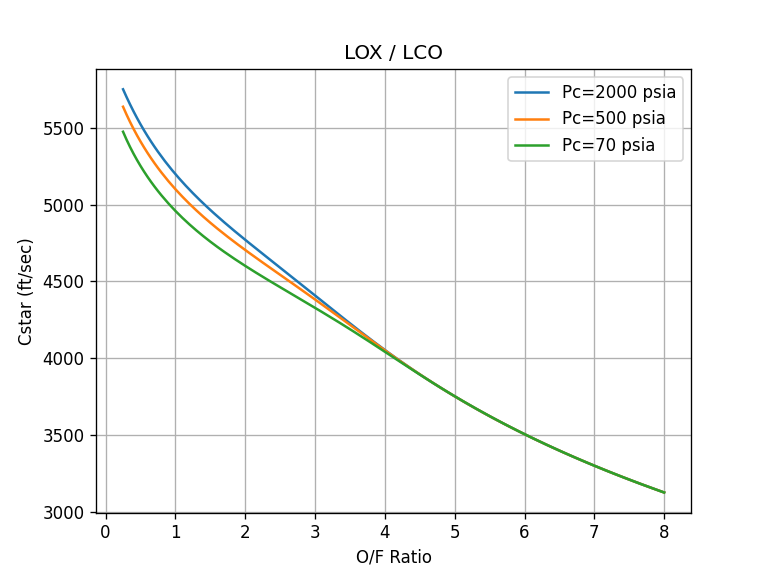
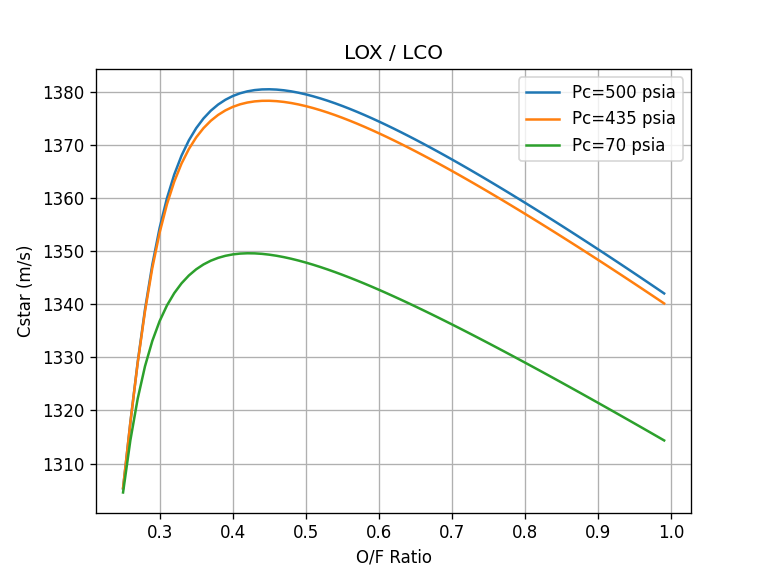
C* vs O/F Isp vs eps

diff --git a/test.py b/test.py
@@ -2,53 +2,78 @@ from rocketcea.cea_obj import CEA_Obj, add_new_fuel, add_new_oxidizer, add_new_p
 import CoolProp.CoolProp as CP
 from pylab import *
 
+# isp_units            = 'sec',         # N-s/kg, m/s, km/s
+# cstar_units          = 'ft/sec',      # m/s
+# pressure_units       = 'psia',        # MPa, KPa, Pa, Bar, Atm, Torr
+# temperature_units    = 'degR',        # K, C, F
+# sonic_velocity_units = 'ft/sec',      # m/s
+# enthalpy_units       = 'BTU/lbm',     # J/g, kJ/kg, J/kg, kcal/kg, cal/g
+# density_units        = 'lbm/cuft',    # g/cc, sg, kg/m^3
+# specific_heat_units  = 'BTU/lbm degR' # kJ/kg-K, cal/g-C, J/kg-K
+# viscosity_units      = 'millipoise'   # lbf-sec/sqin, lbf-sec/sqft, lbm/ft-sec, poise, centipoise
+# thermal_cond_units   = 'mcal/cm-K-s'  # millical/cm-degK-sec, BTU/hr-ft-degF, BTU/s-in-degF,
+#                                       #  cal/s-cm-degC, W/cm-degC
+
 # # O/F ratio
 # C = CEA_Obj( oxName='LOX', fuelName='LH2')
 # for mr in range(2,9):
 #     print(mr, C.get_Isp(Pc=100.0, MR=mr, eps=40.0) )
 
 
-# # General information
-# ispObj = CEA_Obj( oxName='LOX', fuelName='LH2')
-# s = ispObj.get_full_cea_output( Pc=1000.0, MR=6.0, eps=40.0, short_output=1)
-# print( s )
-
-
-
 
 # Add LCO as a prop
 card_str = """
 fuel CO(L)  C 1.0   O 1.0     wt%=100.00
-h,cal=12900.0     t(k)=80   rho=CP.PropsSI('D', 'T', 80, 'P', 1500000, 'CarbonMonoxide')
+h,j/mol=-110530
 """
 add_new_fuel( 'LCO', card_str )
-# C = CEA_Obj(oxName="LOX", fuelName="LCO")
-# s = C.get_full_cea_output( Pc=1850.0, MR=0.7, eps=40.0, short_output=1)
+
+
+# # General information
+ispObj = CEA_Obj(oxName='LOX', fuelName='LCO')
+# s = ispObj.get_full_cea_output( Pc=30, MR=0.571, eps=40.0, short_output=1, pc_units='bar', output='siunits')
 # print( s )
 
 
 
-
-# pcL = [ 2000., 500., 70.]
-#
-# ispObj = CEA_Obj(propName='', oxName='LOX', fuelName="LCO")
-# # ispObj = CEA_Obj(propName='', oxName='LOX', fuelName="LH2")
+# # C* vs O/F
+# pcL = [ 435.113213 ]
+# # ispObj = CEA_Obj(propName='', oxName='LOX', fuelName='LCO')
 #
 # for Pc in pcL:
 #     cstarArr = []
 #     MR = 0.25
 #     mrArr = []
-#     while MR < 8.0:
-#         cstarArr.append( ispObj.get_Cstar( Pc=Pc, MR=MR ) )
+#     while MR < 2:
+#         cstarArr.append( ispObj.get_Cstar( Pc=Pc, MR=MR ) * 0.3048 )
 #         mrArr.append(MR)
-#         MR += 0.05
-#     plot(mrArr, cstarArr, label='Pc=%g psia'%Pc)
-#
+#         MR += 0.01
+#     Pc = 30
+#     plot(mrArr, cstarArr, label='Pc=%g bar' %Pc)
+# ylim(1100, 1400)
+# xlim(0, 2.2)
 # legend(loc='best')
 # grid(True)
 # title( ispObj.desc )
 # xlabel( 'O/F Ratio' )
-# ylabel( 'Cstar (ft/sec)' )
-# savefig('cea_cstar_plot.png', dpi=120)
-#
+# ylabel( 'Cstar (m/s)' )
+# # savefig('cea_cstar_plot.png', dpi=120)
 # show()
+
+
+
+
+
+# Isp vs eps
+ispArr = []
+epsL = range(1,41,1)
+for eps in epsL:
+    ispArr.append( ispObj.get_IvacCstrTc_ThtMwGam(Pc=435.113213, MR=0.571, eps=eps)[0] )
+
+plot(epsL, ispArr, label='Pc=30 bar; O/F=0.571')
+legend(loc='best')
+grid(True)
+title( ispObj.desc )
+xlabel( 'Nozzle Expansion Area Ratio' )
+ylabel( 'Isp' )
+show()
